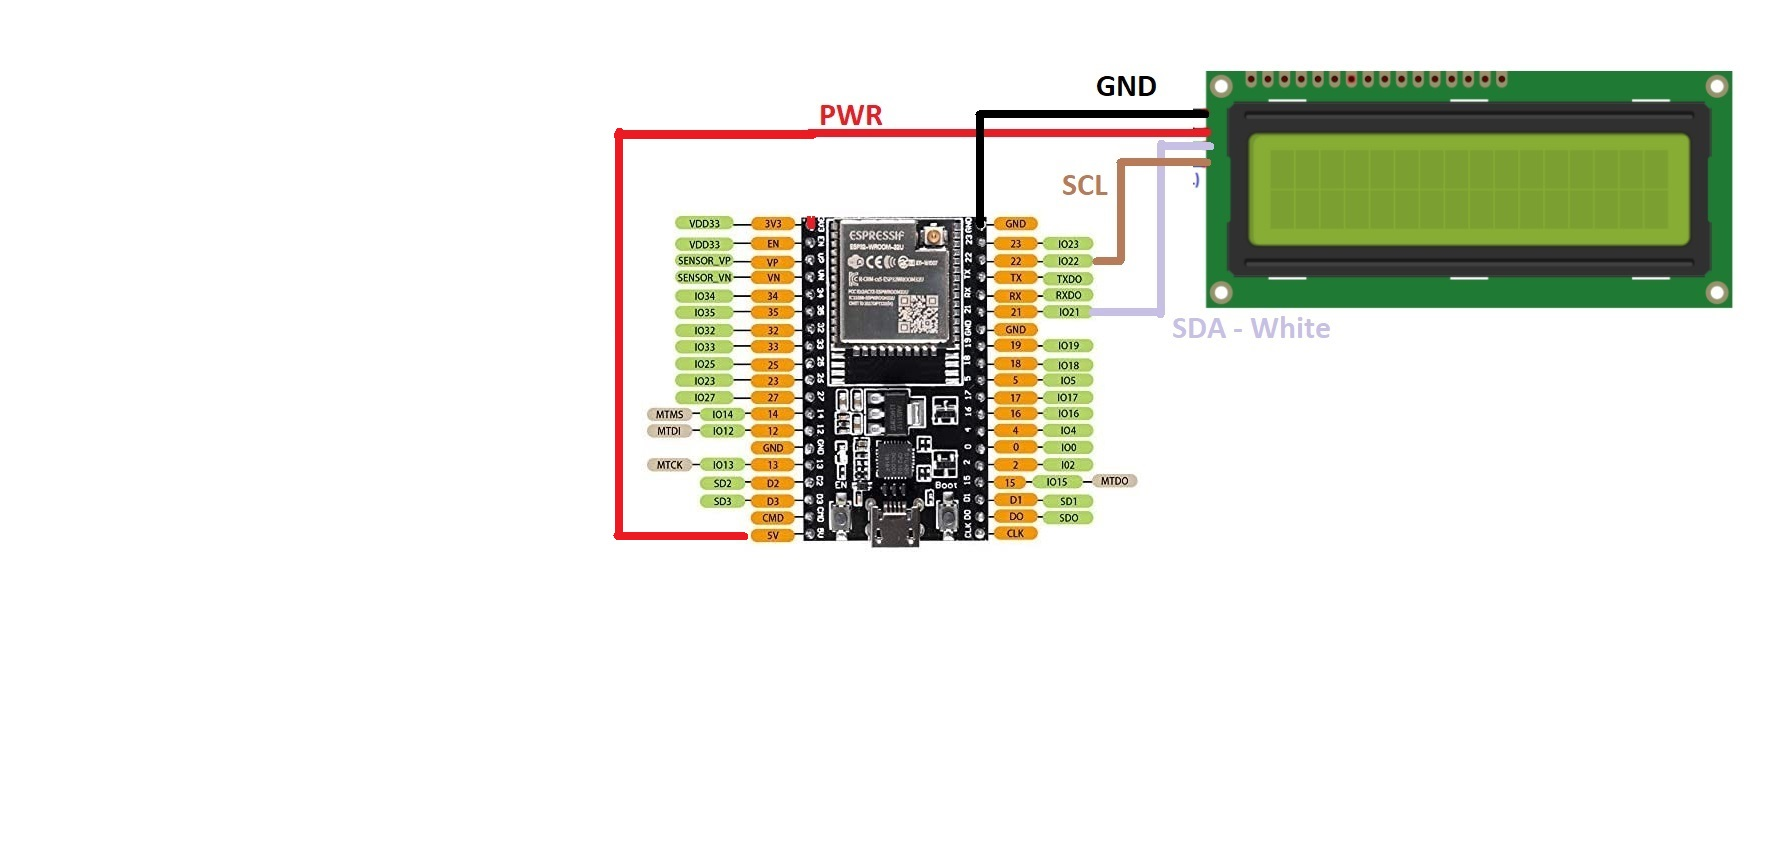
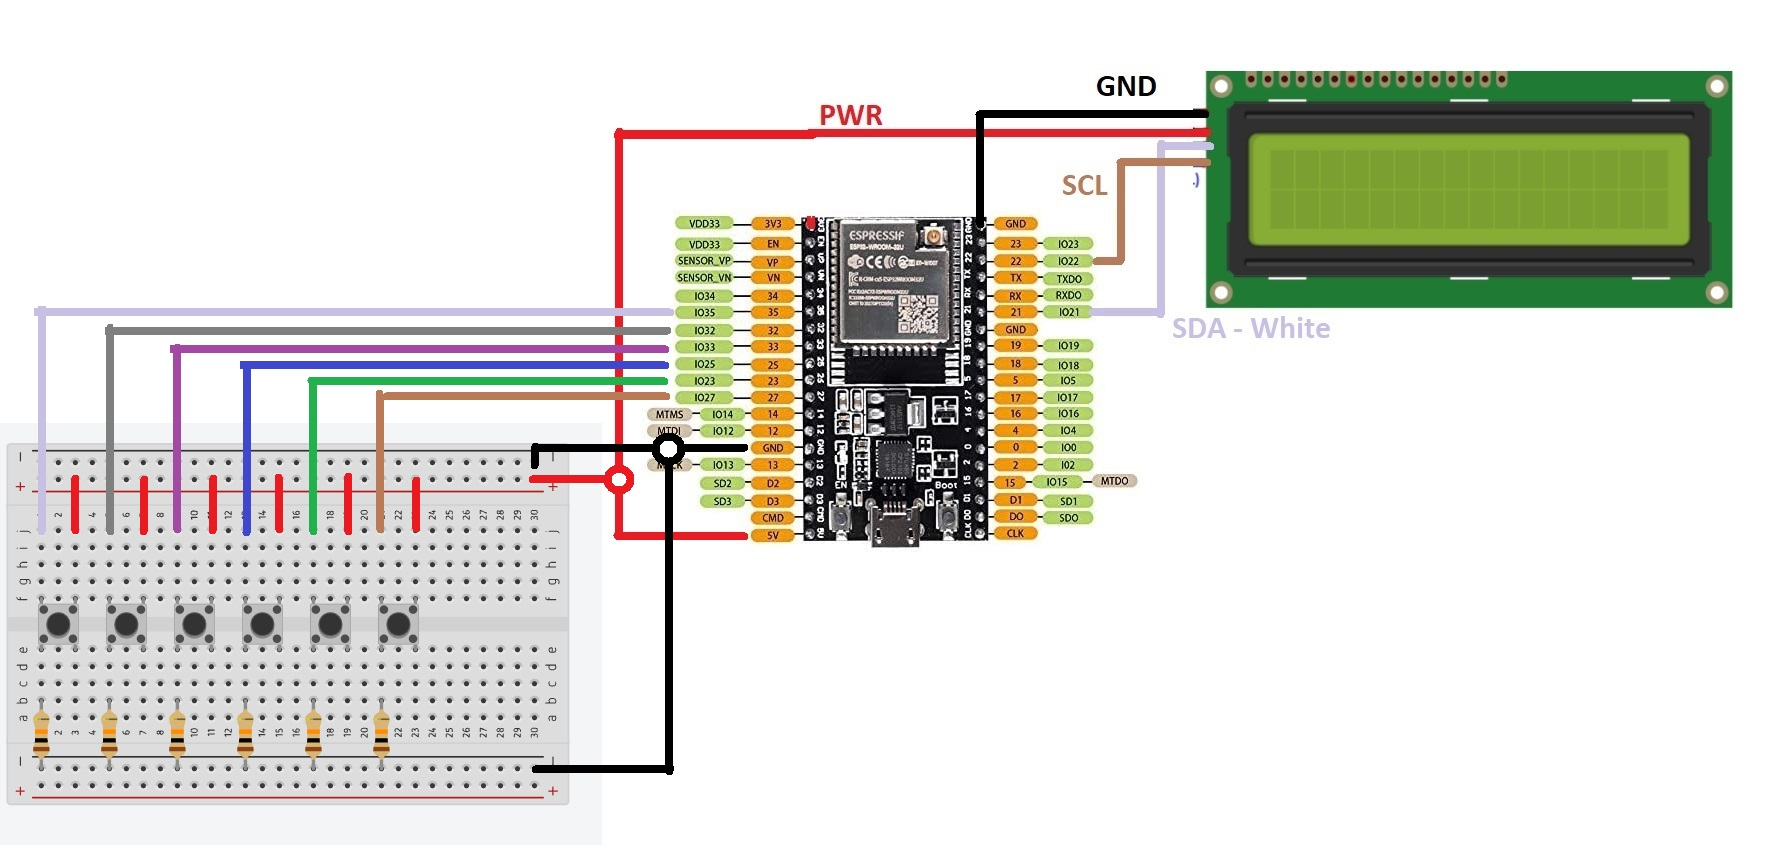
Electronics/add buttons (#2)
* added buttons on breadboard

* added prototype image with buttons

* added code for detecting button pushes

* a button push will now stop the main clock display

Changed region(s): [[0.0, 0.3322, 0.4338, 0.9361]]

diff --git a/src/main.cpp b/src/main.cpp
@@ -14,6 +14,28 @@ NTPClient timeClient(ntpUDP);
 
 LiquidCrystal_I2C lcd(0x27,16,2);  // set the LCD address to 0x27 for a 16 chars and 2 line display
 
+const int BUTTON_LEFT = 35;
+const int BUTTON_RIGHT = 32;
+const int BUTTON_UP = 33;
+const int BUTTON_DOWN = 25;
+const int BUTTON_BACK = 23;
+const int BUTTON_SELECT = 27;
+const int NUMBER_OF_BUTTONS = 6;
+
+const int DEBOUNCE_DELAY = 50;
+
+const int BUTTON_GPIO_PIN[NUMBER_OF_BUTTONS] = {BUTTON_LEFT, BUTTON_RIGHT, BUTTON_UP, BUTTON_DOWN, BUTTON_BACK, BUTTON_SELECT};
+int button_state[NUMBER_OF_BUTTONS] = {LOW,LOW,LOW,LOW,LOW,LOW};
+
+void init_gpio_buttons() {
+  pinMode(BUTTON_LEFT ,INPUT);
+  pinMode(BUTTON_RIGHT ,INPUT);
+  pinMode(BUTTON_UP ,INPUT);
+  pinMode(BUTTON_DOWN ,INPUT);
+  pinMode(BUTTON_BACK ,INPUT);
+  pinMode(BUTTON_SELECT ,INPUT);
+}
+
 void connect_to_wifi(){
   Serial.println(WIFI_SSID);
   WiFi.begin(WIFI_SSID, WIFI_PASSWORD);
@@ -56,19 +78,19 @@ void init_time_client(){
 }
 
 
+
 void setup()
 {
   Serial.begin(9600);
   Serial.println("Initializing....");
+
+  init_gpio_buttons();
 
   connect_to_wifi();
 
   init_lcd();
 
   init_time_client();
-
-  delay(5000);
-
 }
 
 // Prints out the passed time arguement to the LCD
@@ -104,15 +126,40 @@ tm get_time_now(){
   return current_time;
 }
 
+bool check_button_state() {
+  bool button_pressed = false;
+
+  for(int i = 0; i <= 5; i++){
+    button_state[i] = digitalRead(BUTTON_GPIO_PIN[i]); 
+
+    if (button_state[i]) {
+      button_pressed = true;
+    }
+  }
+
+  return button_pressed;
+}
+
+bool display_menu = false;
+unsigned long lastDebounceTime = 0;
+
 void loop() {
   struct tm current_time;
 
+  if(check_button_state()) {
+    display_menu = true;
+    lastDebounceTime = millis();
+  }
+
+  Serial.println(lastDebounceTime < millis());
+
   current_time = get_time_now();
   
-  lcd.setCursor(0,0);
-  lcd.print("The time is...");
+  if(!display_menu){
+    lcd.setCursor(0,0);
+    lcd.print("The time is...");
+    lcd_display_formatted_time(current_time, 1, 0);
+  } 
 
-  lcd_display_formatted_time(current_time, 1, 0);
-
-  delay(1000);
+  delay(10);
 }

diff --git a/README.md b/README.md
@@ -6,6 +6,10 @@ This is a simple desktop ESP32 Pomodoro Timer.
 
 <img src="./documentation/pinout.jpg">
 
+<h3>Prototype</h3>
+
+<img src="./documentation/prototype.jpg">
+
 <h5>Secrets</h5>
 
 You will need to create "wifi_secrets.h" in "./src" with the following format to connect to Wifi and get the current time.
